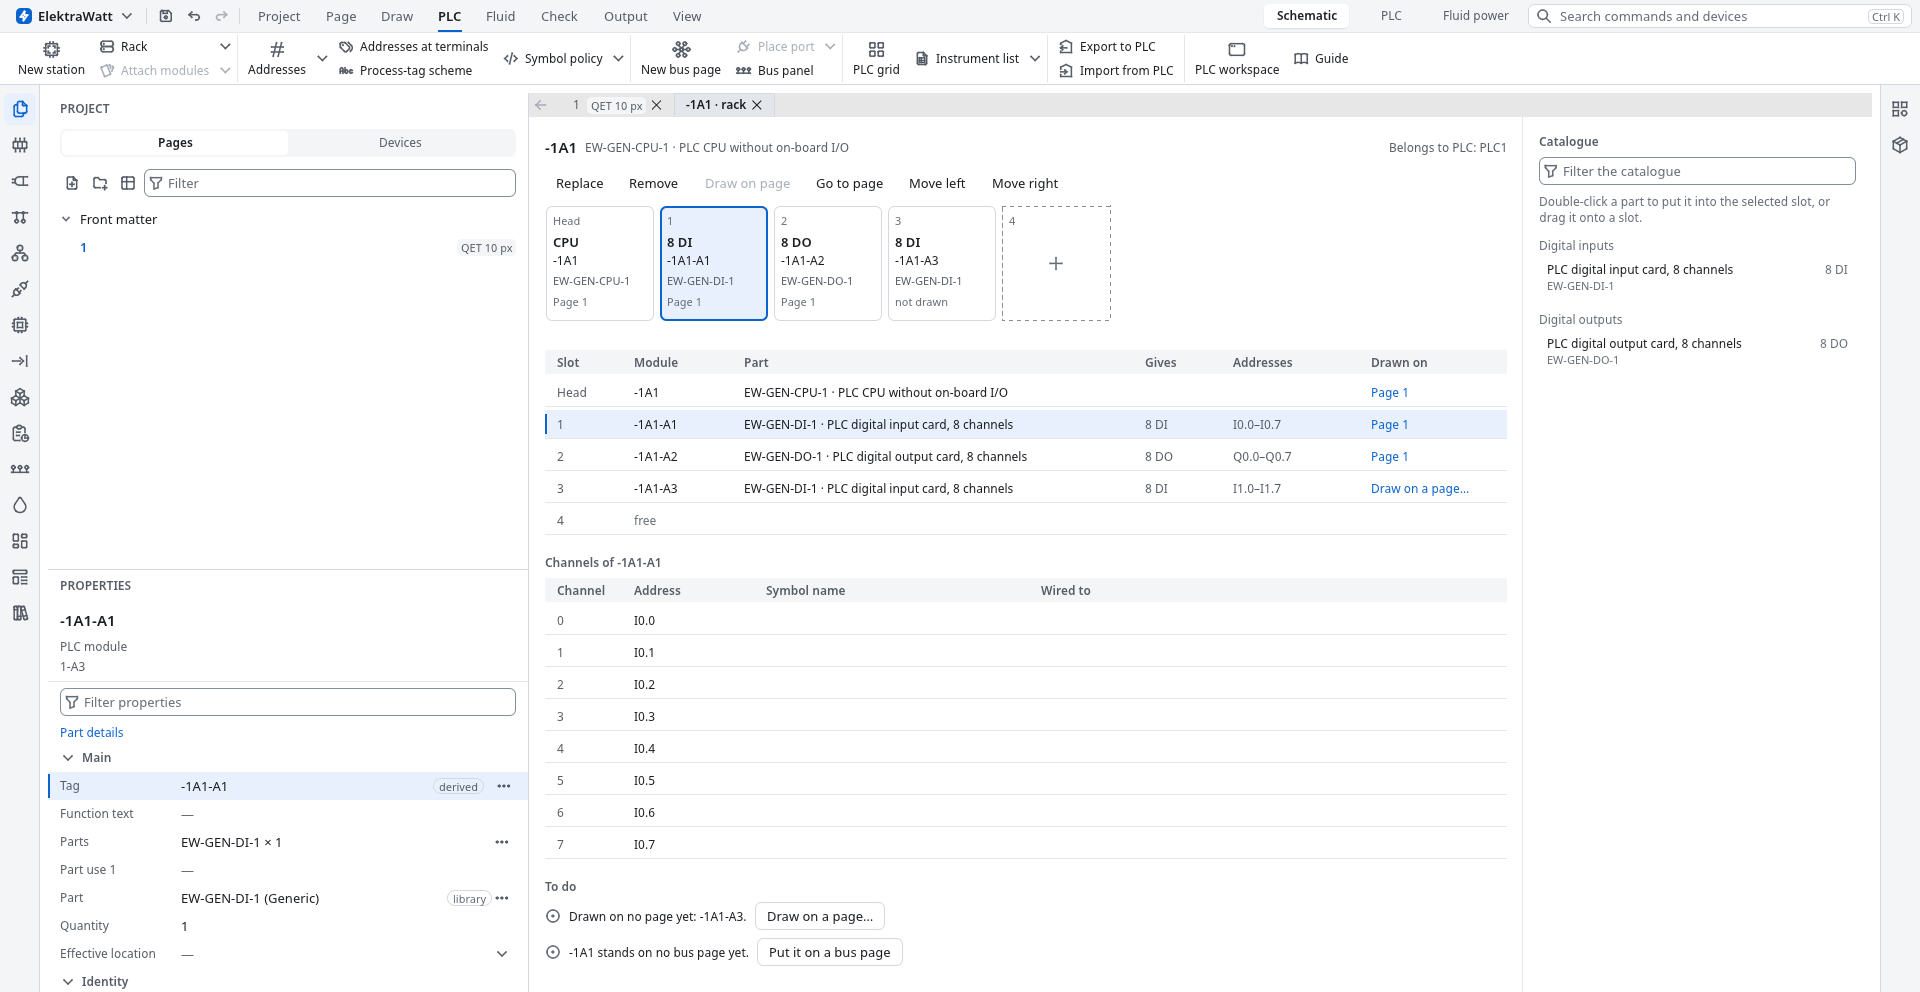
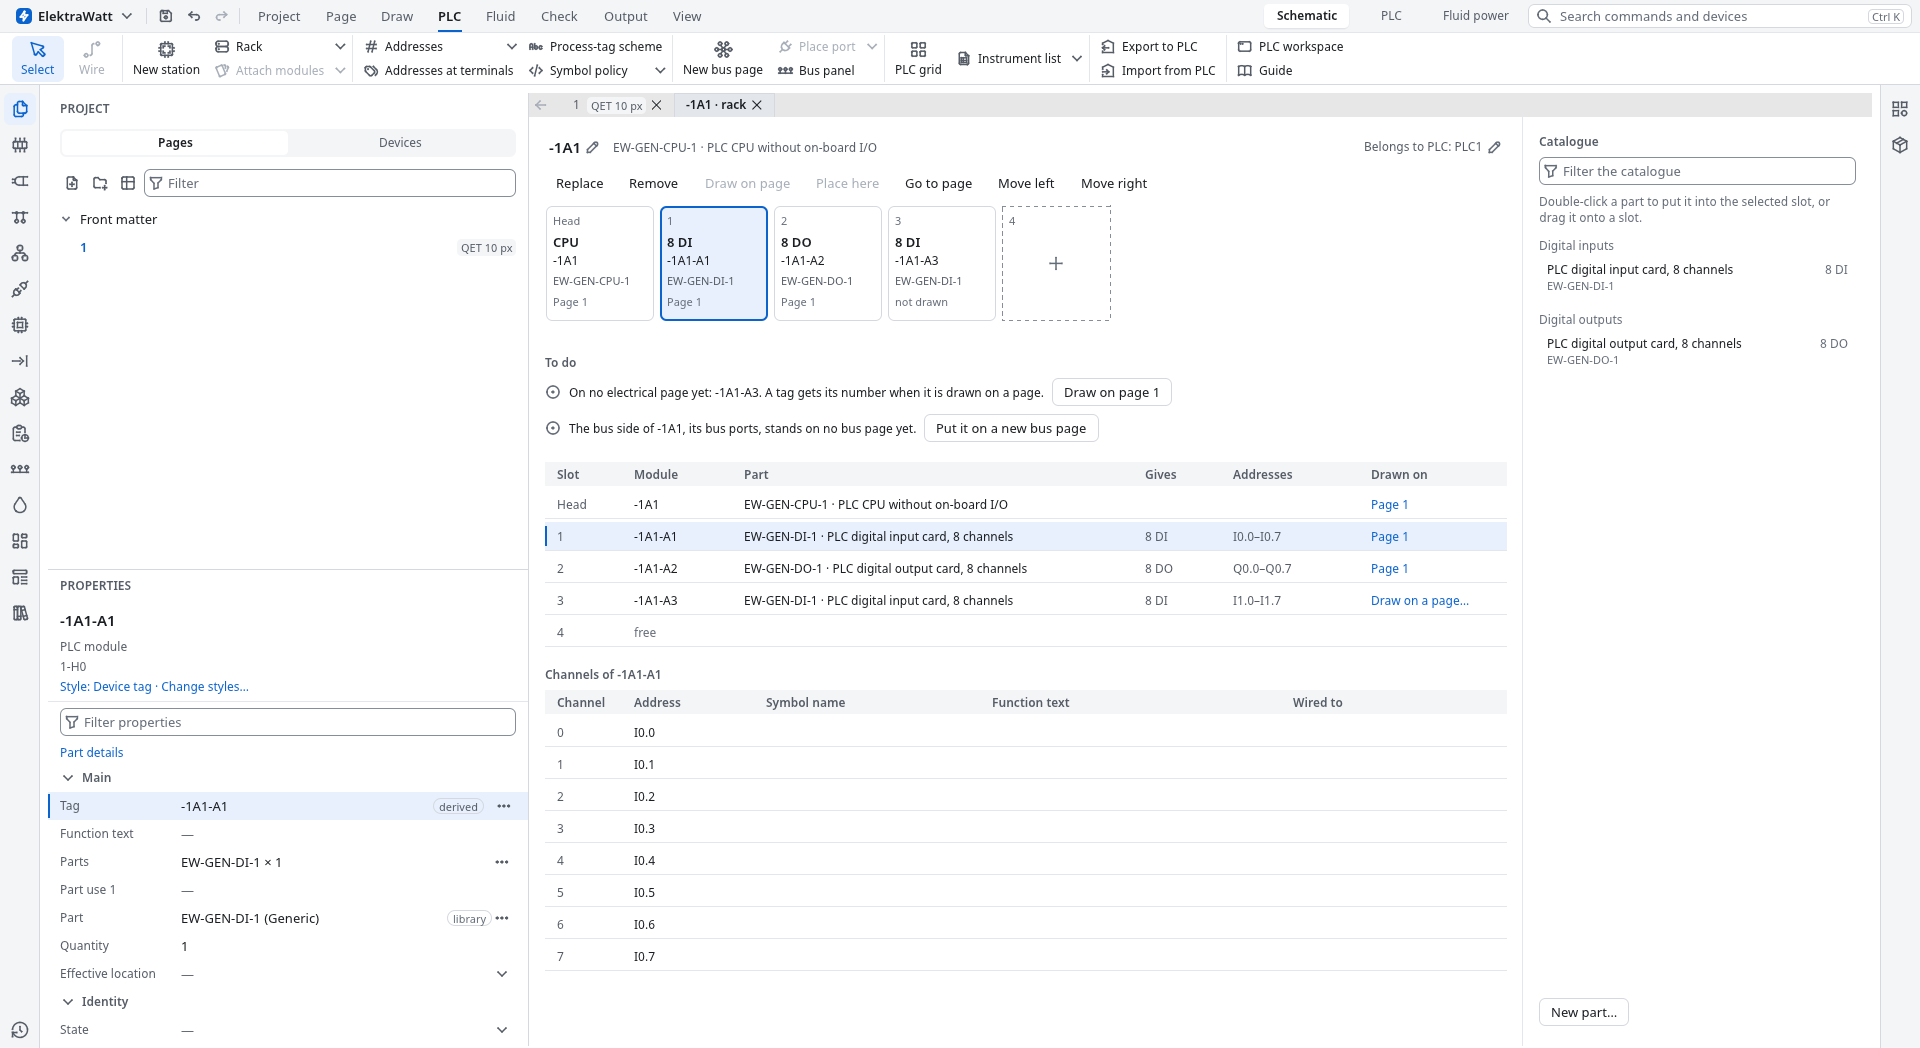
fix(docs): the guide's rack picture is painted again from the station view (FT-2000)
The picture of a station's rack in the PLC how-to was older than the station view: it
lacked the channels' Function text column and showed To do under the channels. It is
painted again offscreen at 1920 x 1080 (the CPU with an input, an output and a second
input card not drawn yet, the first card selected, the PLC tab open), cut to the window
below its title strip; the page's text names the Function text column. book-po rewrote
the template and the Dutch file for the changed sentence.

diff --git a/docs/book/src/how-to/plc-workspace.md b/docs/book/src/how-to/plc-workspace.md
@@ -102,8 +102,8 @@ double-click the station in the PLC panel. Its rack opens in a tab beside the pa
   its part does not allow, a module drawn on no page, a station on no bus page.
 - **The table** under it lists the same places: slot, module, part (number and description), what it gives, its
   addresses and the page it is drawn on. A module without a part says **No part**, with **Choose part…** beside it.
-- **Channels** lists the channels of the selected module: address, symbol name and what is wired to it, which is a
-  link to its place on its page.
+- **Channels** lists the channels of the selected module: address, symbol name, function text (the wired device's, as
+  the PLC overview prints it) and what is wired to it, which is a link to its place on its page.
 - **The catalogue** at the right lists the parts that fit the station, by kind, under a filter. Parts that do not fit
   the selected slot are greyed and say why, as is a library part that nothing can draw yet because it has no pins,
   with what to do in the part editor.

diff --git a/docs/release-notes/unreleased.md b/docs/release-notes/unreleased.md
@@ -15,6 +15,8 @@ When a release branch is cut, `docs/release-notes/<X.Y.Z>.md` is written from th
 from this file on both branches. From then on a fix to a candidate writes its line in `<X.Y.Z>.md`, and every other
 change here.
 
+- text-change: the guide's picture of a station's rack shows the station view as it is, To do under the cards and the
+  channels' Function text column, and its text names that column (FT-2000)
 - text-change: the help of the Project's rows (the pointer resting on a row's name, and F1) says what the program
   does with the value, its unit and an example, in English and Dutch: the title block's or the cover page's cell that
   prints it, or that the program keeps it as a note (Control voltage, Rated consumption, the supply's earthing and

diff --git a/docs/plan/backlog.md b/docs/plan/backlog.md
@@ -49,7 +49,6 @@ From the owner's tests of 0.3.0's candidates and the persona runs.
 
 #### The station view and the PLC grid
 
-- FT-2000 `docs`: The guide's picture of a rack (`how-to/images/plc-rack.png`) is older than the station view: it lacks the Function text column and shows the To do under the channels; paint it again from the view.
 
 #### The window's finish
 
